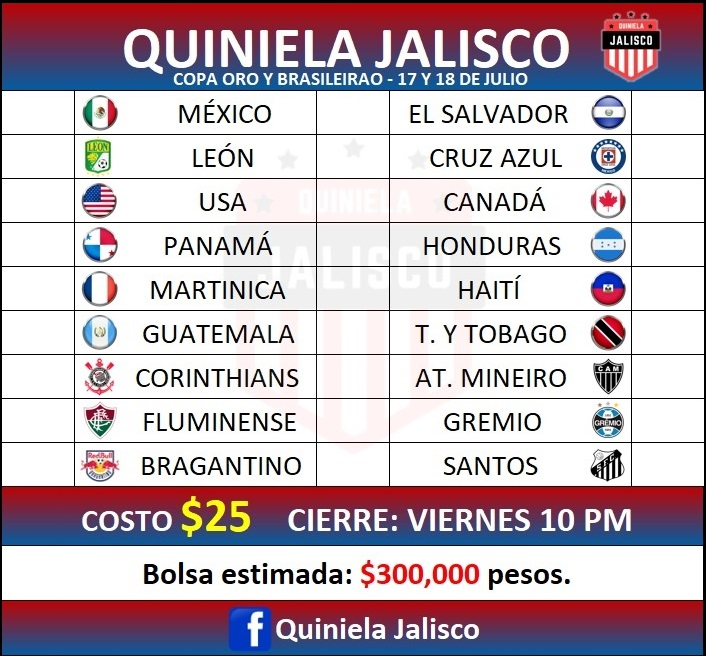
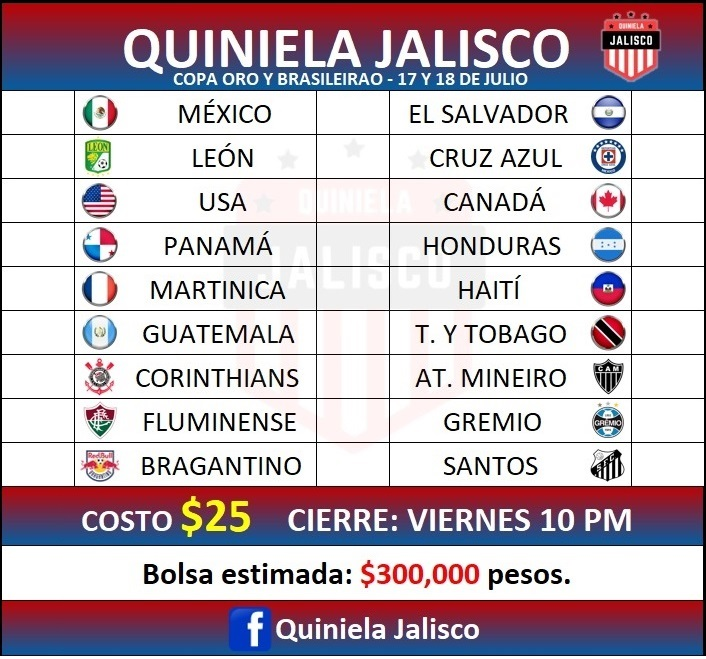
Jornada 2 A21

Changed region(s): [[0.0, 0.0915, 1.0, 1.0], [0.1246, 0.122, 0.187, 0.1524]]

diff --git a/10/styles10.css b/10/styles10.css
@@ -88,8 +88,8 @@ h1{
     margin-top: 8%;
     border: solid 1px black;
     border-radius: 0 0 14px 14px;
-    background: -webkit-linear-gradient(0.51turn, rgb(6,135,9)  ,rgb(13,25,13) 80%);
-    background: linear-gradient(0.51turn, rgb(6,135,9)  ,rgb(13,25,13) 80%);
+    background: -webkit-linear-gradient(0.07turn, rgb(11,29,33)  ,rgb(39,102,117) 80%);
+    background: linear-gradient(0.07turn, rgb(11,29,33)  ,rgb(39,102,117) 80%);
     font-size: x-large;
 }
 

diff --git a/styles.css b/styles.css
@@ -89,8 +89,8 @@ h1{
     margin-top: 8%;
     border: solid 1px black;
     border-radius: 0 0 14px 14px;
-    background: -webkit-linear-gradient(0.5turn, rgb(4,91,158)  ,rgb(171,10,16) 80%);
-    background: linear-gradient(0.5turn, rgb(4,91,158)  ,rgb(171,10,16) 80%);
+    background: -webkit-linear-gradient(0.5turn, rgb(11,29,33)  ,rgb(39,102,117) 80%);
+    background: linear-gradient(0.5turn, rgb(11,29,33)  ,rgb(39,102,117) 80%);
     font-size: x-large;
 }
 
